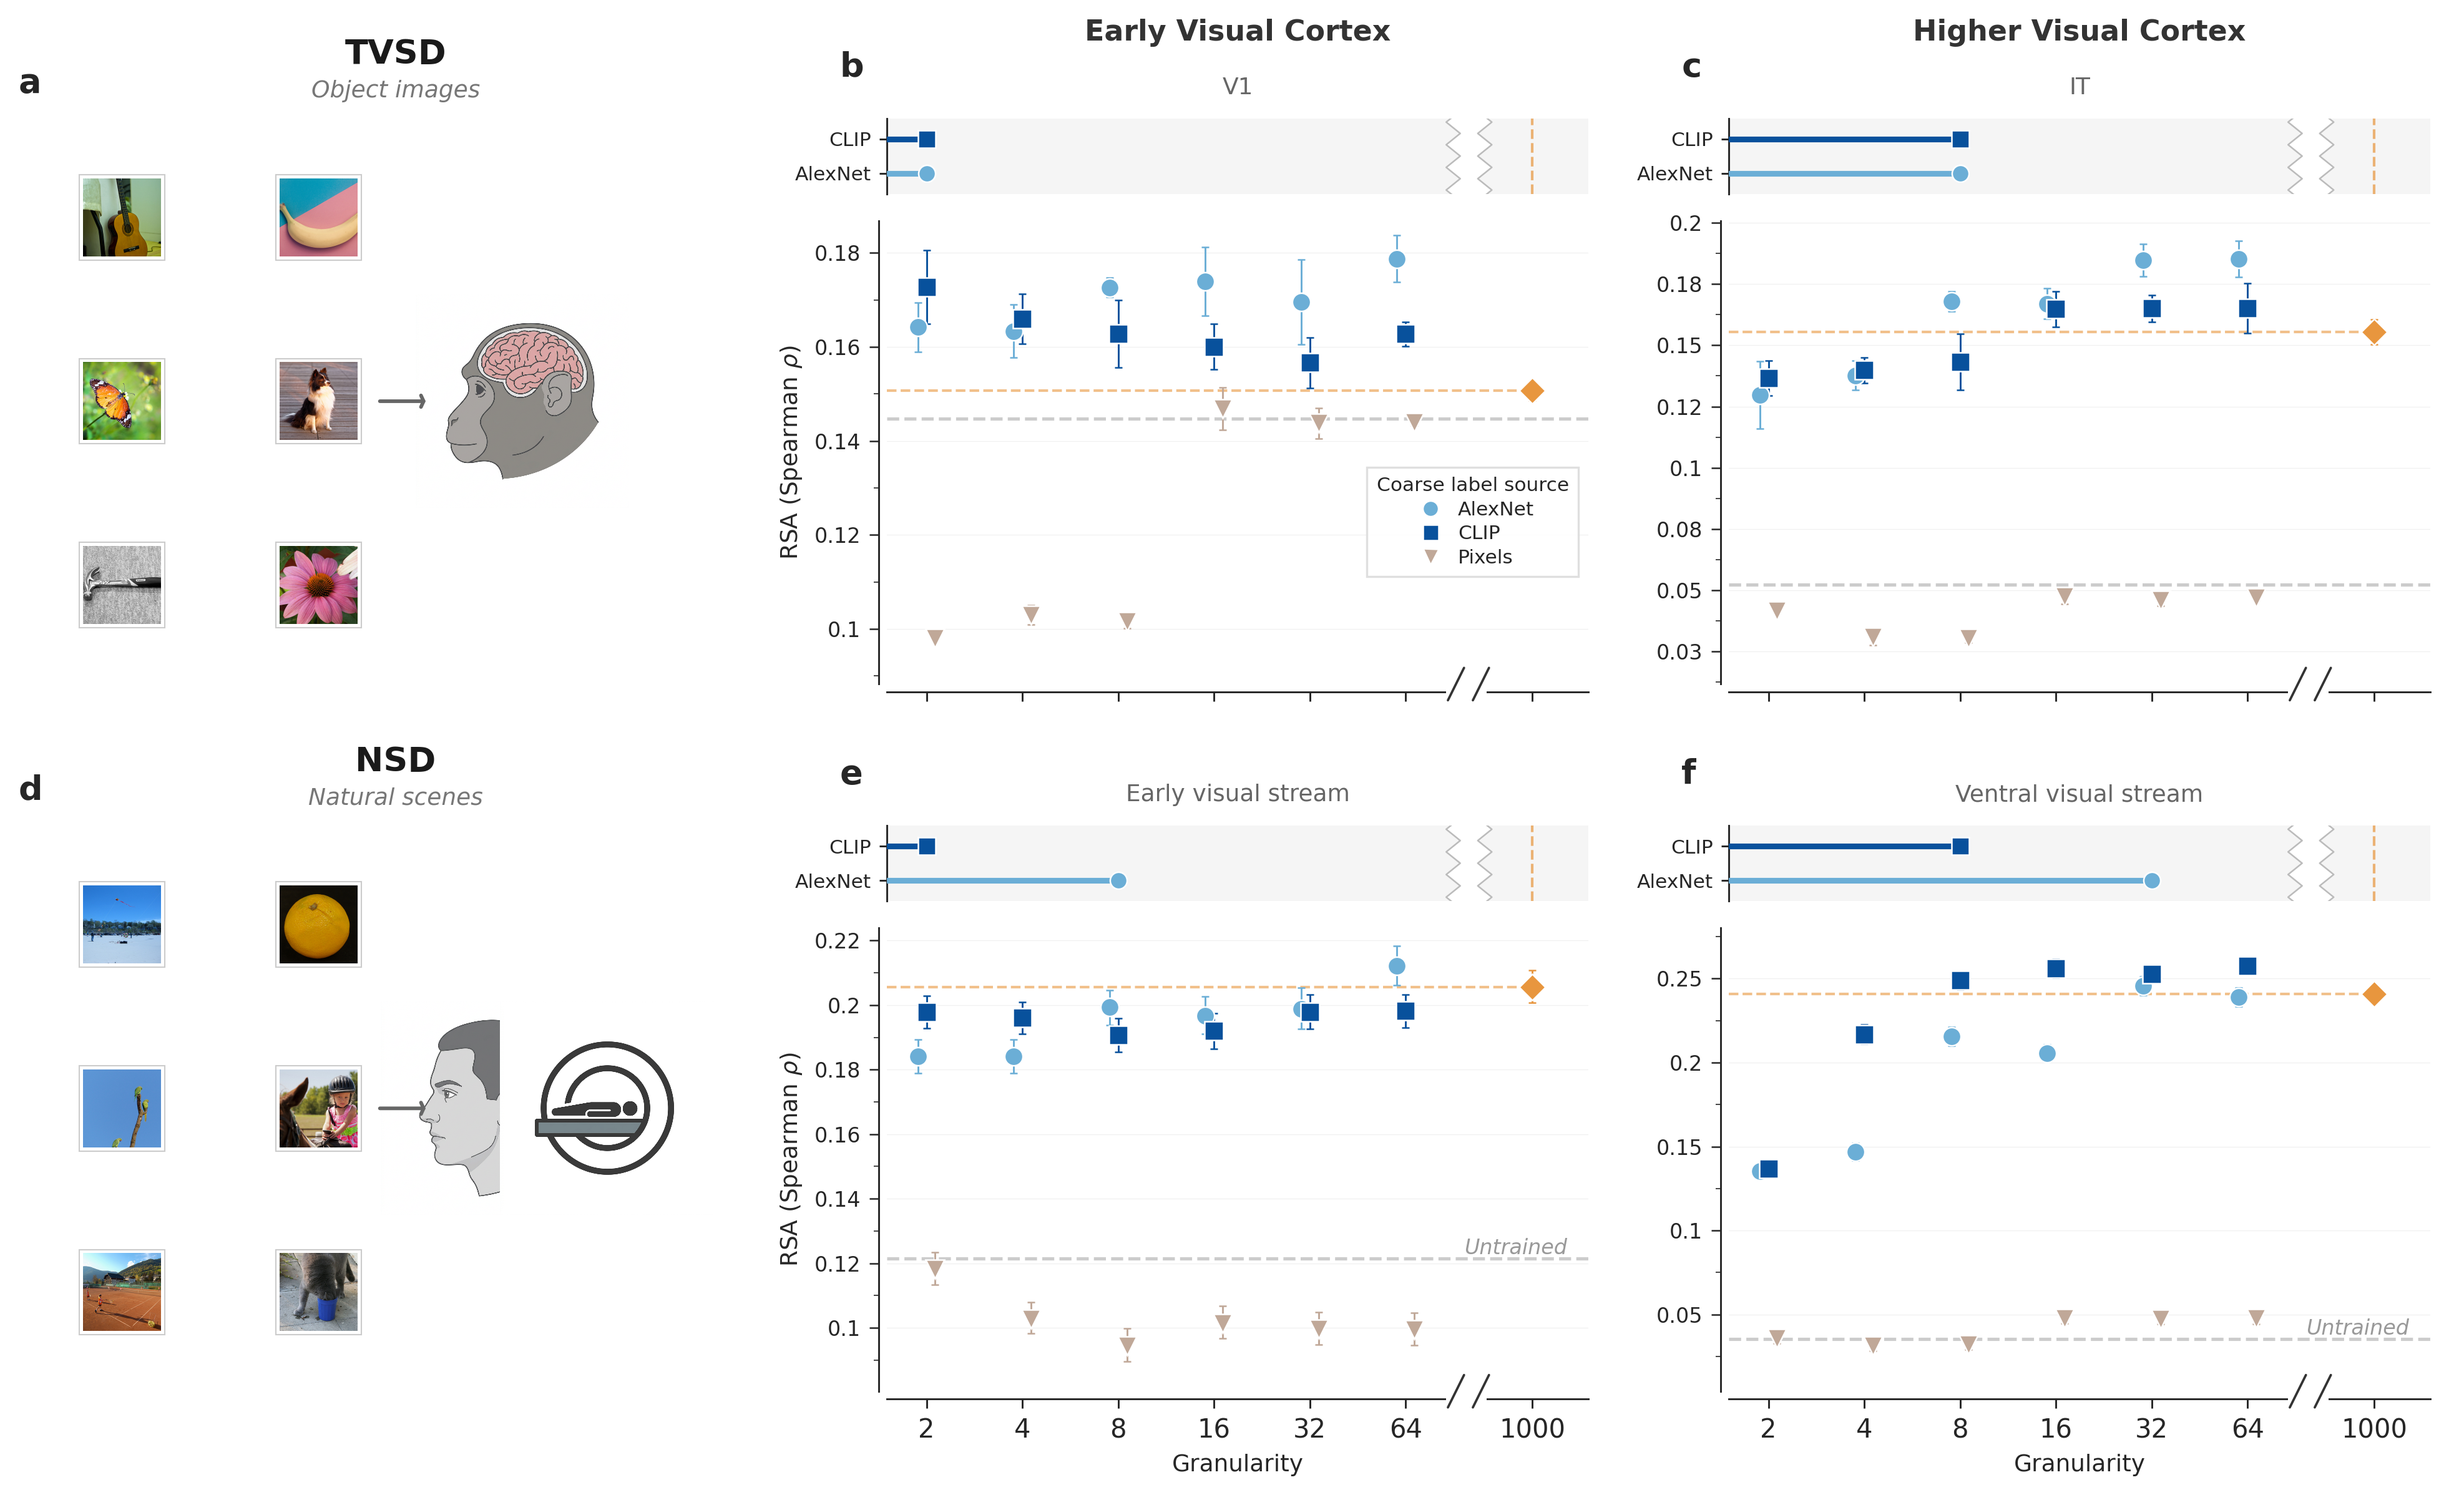
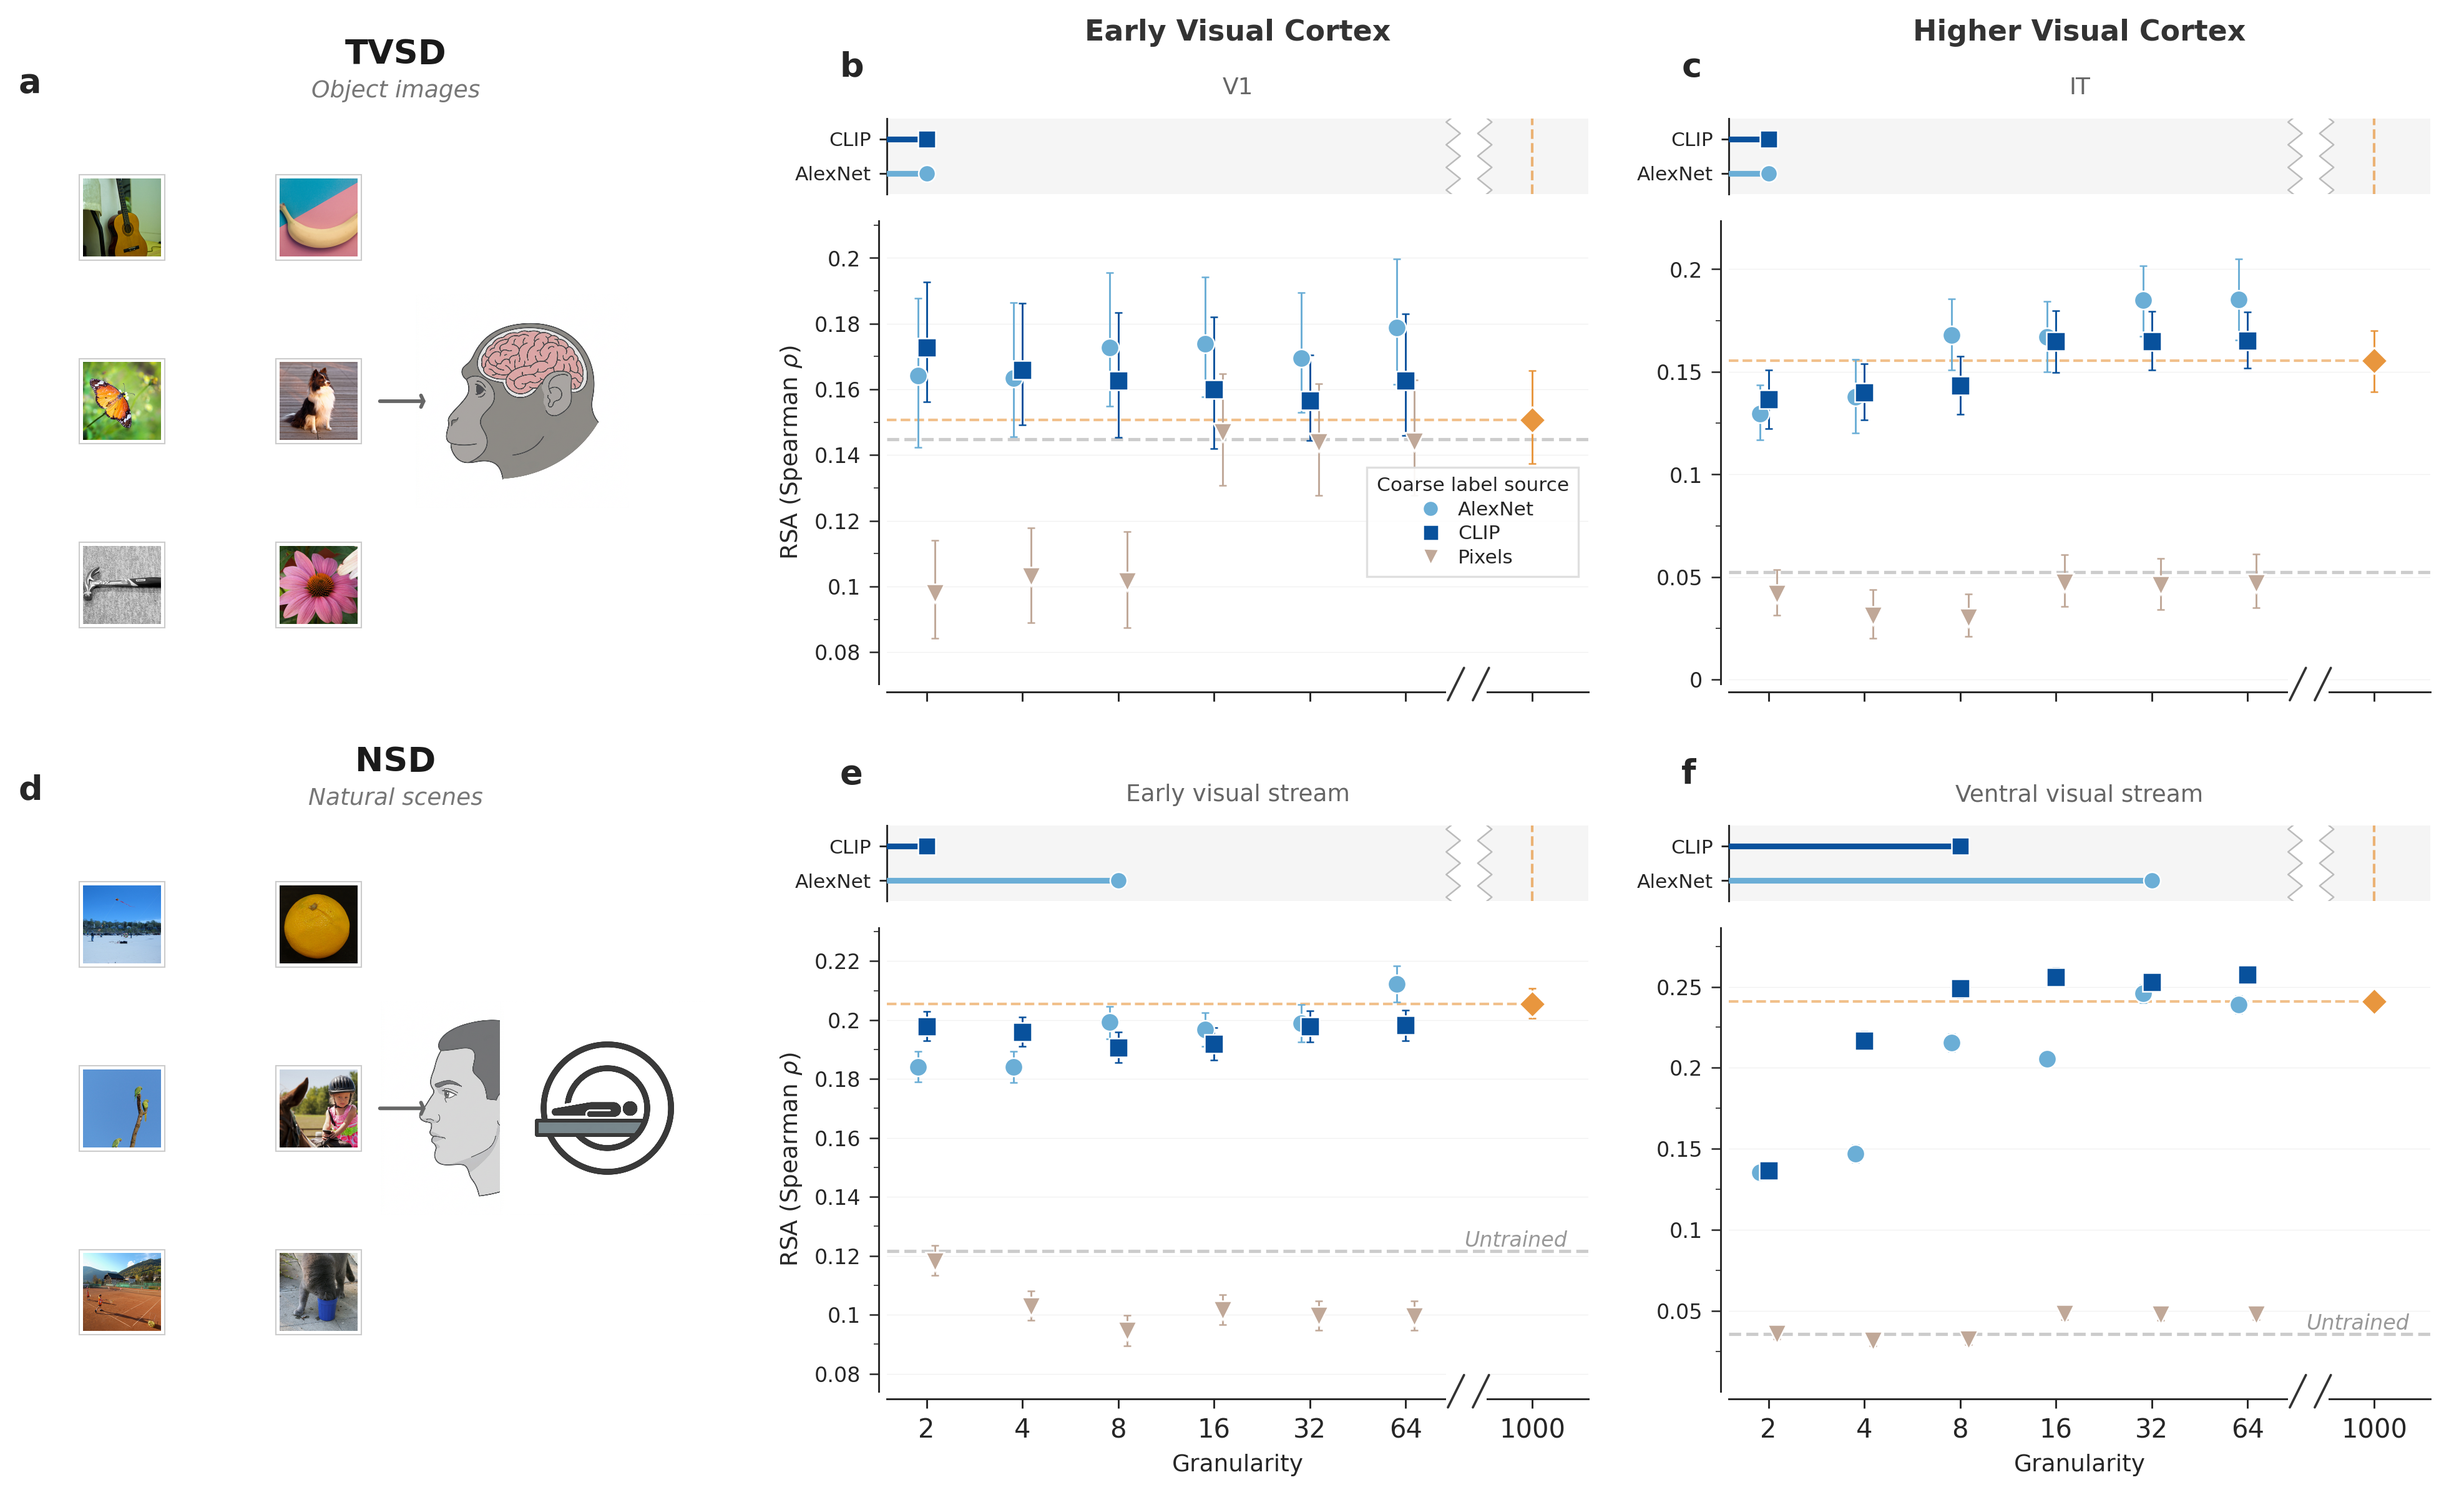
🎨 Update fig3 neural alignment panels and add species/brain assets
Remove extract_class_centroids.py and panel_efficiency.py (no longer used).
Update figure3.py, panel_raw.py, and shared.py for revised 2×3 layout.
Add fMRI, human, and monkey schematic assets.

diff --git a/manuscript/figures/fig3/shared.py b/manuscript/figures/fig3/shared.py
@@ -1,6 +1,6 @@
 """Shared constants, data fetching, and axis formatting for Figure 3.
 
-Used by panel_raw.py, panel_efficiency.py, and figure3.py.
+Used by panel_raw.py, panel_bits.py, and figure3.py.
 """
 
 import sys
@@ -10,7 +10,7 @@ import numpy as np
 from matplotlib.ticker import AutoMinorLocator, FixedLocator, FuncFormatter, NullLocator
 
 sys.path.insert(0, "plotters")
-from plotter_utils import get_condition_summary, query_best_scores
+from plotter_utils import get_condition_summary
 
 sys.path.insert(0, "manuscript/figures")
 from fig_utils import COARSE_CFGS, MARKER_SIZE, EDGE_COLOR, EDGE_WIDTH, compute_jitter
@@ -37,85 +37,45 @@ def fetch_arch_data(dataset, folder, region):
     """Fetch means and asymmetric error bars for coarse-label conditions.
 
     Returns (means, errs_lo, errs_hi) arrays of length len(COARSE_CFGS).
-    NSD uses bootstrap CIs; TVSD uses 1.96 * SEM across seeds.
+    Uses bootstrap CIs (via get_condition_summary) for both NSD and TVSD.
     """
-    if dataset == "nsd":
-        means, ci_lo, ci_hi = [], [], []
-        for cfg in COARSE_CFGS:
-            s = get_condition_summary("nsd", region, folder, cfg,
-                                      "spearman", epoch=20, analysis="rsa")
-            means.append(s["mean"])
-            ci_lo.append(s["ci_low"])
-            ci_hi.append(s["ci_high"])
-        means = np.array(means)
-        errs_lo = np.array([max(m - lo, 0) if not np.isnan(lo) else 0
-                            for m, lo in zip(means, ci_lo)])
-        errs_hi = np.array([max(hi - m, 0) if not np.isnan(hi) else 0
-                            for m, hi in zip(means, ci_hi)])
-    else:
-        means, sems = [], []
-        for cfg in COARSE_CFGS:
-            df = query_best_scores("tvsd", region, folder, cfg,
-                                   "spearman", epoch=20, analysis="rsa")
-            if df.empty:
-                means.append(np.nan)
-                sems.append(0)
-                continue
-            seed_means = df.groupby("seed")["score"].mean()
-            means.append(seed_means.mean())
-            sem = seed_means.std() / np.sqrt(len(seed_means)) if len(seed_means) > 1 else 0
-            sems.append(sem)
-        means = np.array(means)
-        errs_lo = errs_hi = 1.96 * np.array(sems)
+    means, ci_lo, ci_hi = [], [], []
+    for cfg in COARSE_CFGS:
+        s = get_condition_summary(dataset, region, folder, cfg,
+                                  "spearman", epoch=20, analysis="rsa")
+        means.append(s["mean"])
+        ci_lo.append(s["ci_low"])
+        ci_hi.append(s["ci_high"])
+    means = np.array(means)
+    errs_lo = np.array([max(m - lo, 0) if not np.isnan(lo) else 0
+                        for m, lo in zip(means, ci_lo)])
+    errs_hi = np.array([max(hi - m, 0) if not np.isnan(hi) else 0
+                        for m, hi in zip(means, ci_hi)])
     return means, errs_lo, errs_hi
 
 
 @lru_cache(maxsize=16)
 def fetch_baseline(dataset, region, epoch=20):
     """Fetch 1000-way baseline mean score."""
-    if dataset == "nsd":
-        s = get_condition_summary("nsd", region, "imagenet1k", 1000,
-                                  "spearman", epoch=epoch, analysis="rsa")
-        return s["mean"]
-    df = query_best_scores("tvsd", region, "imagenet1k", 1000,
-                           "spearman", epoch=epoch, analysis="rsa")
-    if df.empty:
-        return np.nan
-    return df.groupby("seed")["score"].mean().mean()
+    s = get_condition_summary(dataset, region, "imagenet1k", 1000,
+                              "spearman", epoch=epoch, analysis="rsa")
+    return s["mean"]
 
 
 @lru_cache(maxsize=16)
 def fetch_baseline_ci(dataset, region, epoch=20):
     """Fetch 1000-way baseline (mean, ci_low, ci_high)."""
-    if dataset == "nsd":
-        s = get_condition_summary("nsd", region, "imagenet1k", 1000,
-                                  "spearman", epoch=epoch, analysis="rsa")
-        return s["mean"], s["ci_low"], s["ci_high"]
-    df = query_best_scores("tvsd", region, "imagenet1k", 1000,
-                           "spearman", epoch=epoch, analysis="rsa")
-    if df.empty:
-        return np.nan, np.nan, np.nan
-    seed_means = df.groupby("seed")["score"].mean()
-    m = seed_means.mean()
-    sem = seed_means.std() / np.sqrt(len(seed_means)) if len(seed_means) > 1 else 0
-    return m, m - 1.96 * sem, m + 1.96 * sem
+    s = get_condition_summary(dataset, region, "imagenet1k", 1000,
+                              "spearman", epoch=epoch, analysis="rsa")
+    return s["mean"], s["ci_low"], s["ci_high"]
 
 
 @lru_cache(maxsize=16)
 def fetch_coarse_ci(dataset, folder, region, cfg):
     """Fetch (mean, ci_low, ci_high) for a single coarse condition."""
-    if dataset == "nsd":
-        s = get_condition_summary("nsd", region, folder, cfg,
-                                  "spearman", epoch=20, analysis="rsa")
-        return s["mean"], s["ci_low"], s["ci_high"]
-    df = query_best_scores("tvsd", region, folder, cfg,
-                           "spearman", epoch=20, analysis="rsa")
-    if df.empty:
-        return np.nan, np.nan, np.nan
-    seed_means = df.groupby("seed")["score"].mean()
-    m = seed_means.mean()
-    sem = seed_means.std() / np.sqrt(len(seed_means)) if len(seed_means) > 1 else 0
-    return m, m - 1.96 * sem, m + 1.96 * sem
+    s = get_condition_summary(dataset, region, folder, cfg,
+                              "spearman", epoch=20, analysis="rsa")
+    return s["mean"], s["ci_low"], s["ci_high"]
 
 
 # ── Axis formatting ──────────────────────────────────────────────────────
@@ -137,8 +97,11 @@ def format_xaxis(ax, show_xlabel, xlim_right=RAW_XLIM_RIGHT):
     ax.set_xlim(1.5, xlim_right)
 
 
-def format_yaxis(ax, fmt_str=".2f"):
+def format_yaxis(ax, fmt_str=".2f", tick_interval=None):
     """Y-axis with minor ticks, grid, and trimmed numeric labels."""
+    if tick_interval is not None:
+        from matplotlib.ticker import MultipleLocator
+        ax.yaxis.set_major_locator(MultipleLocator(tick_interval))
     ax.tick_params(axis="y", which="major", direction="out", length=3.5, width=0.6)
     ax.yaxis.set_minor_locator(AutoMinorLocator(2))
     ax.tick_params(axis="y", which="minor", direction="out", length=2, width=0.4)

diff --git a/manuscript/figures/fig3/panel_raw.py b/manuscript/figures/fig3/panel_raw.py
@@ -37,7 +37,7 @@ def _format_broken_xaxis(ax, show_xlabel):
 
 
 def plot_raw(ax, dataset, region, show_ylabel=True, show_xlabel=True,
-             show_untrained_label=False):
+             show_untrained_label=False, tick_interval=None):
     """Raw Spearman rho scatter (all architectures) + 1000-way marker + broken axis."""
     bl_mean, bl_ci_low, bl_ci_high = fetch_baseline_ci(dataset, region)
     if np.isnan(bl_mean) or bl_mean == 0:
@@ -48,6 +48,10 @@ def plot_raw(ax, dataset, region, show_ylabel=True, show_xlabel=True,
     untrained_mean = fetch_baseline(dataset, region, epoch=0)
 
     all_y = [bl_mean]
+    if not np.isnan(bl_ci_low):
+        all_y.append(bl_ci_low)
+    if not np.isnan(bl_ci_high):
+        all_y.append(bl_ci_high)
     if not np.isnan(untrained_mean):
         all_y.append(untrained_mean)
 
@@ -55,7 +59,9 @@ def plot_raw(ax, dataset, region, show_ylabel=True, show_xlabel=True,
     for arch_idx, (arch_key, folder, _) in enumerate(ARCHITECTURES):
         style = ARCH_STYLE[arch_key]
         means, errs_lo, errs_hi = fetch_arch_data(dataset, folder, region)
-        all_y.extend(m for m in means if not np.isnan(m))
+        for i, m in enumerate(means):
+            if not np.isnan(m):
+                all_y.extend([m - errs_lo[i], m + errs_hi[i]])
         jitter = compute_jitter(arch_idx, len(ARCHITECTURES))
 
         for i, cfg in enumerate(COARSE_CFGS):
@@ -100,7 +106,7 @@ def plot_raw(ax, dataset, region, show_ylabel=True, show_xlabel=True,
     _format_broken_xaxis(ax, show_xlabel)
     draw_xaxis_break(ax)
     ax.set_ylim(y_min - y_range * 0.12, y_max + y_range * 0.10)
-    format_yaxis(ax)
+    format_yaxis(ax, tick_interval=tick_interval)
 
     if show_ylabel:
         ax.set_ylabel(r"RSA (Spearman $\rho$)", fontsize=9, labelpad=4)

diff --git a/manuscript/figures/fig3/figure3.py b/manuscript/figures/fig3/figure3.py
@@ -56,17 +56,17 @@ def main():
 
     # ── Data panels (cols 1–2): each cell = lollipop + scatter ──
     panel_defs = [
-        # (row, col, dataset, region, show_ylabel, show_xlabel)
-        (0, 1, "tvsd", "V1",                    True,  False),
-        (0, 2, "tvsd", "IT",                    False, False),
-        (1, 1, "nsd",  "early visual stream",   True,  True),
-        (1, 2, "nsd",  "ventral visual stream", False, True),
+        # (row, col, dataset, region, show_ylabel, show_xlabel, tick_interval)
+        (0, 1, "tvsd", "V1",                    True,  False, None),
+        (0, 2, "tvsd", "IT",                    False, False, 0.05),
+        (1, 1, "nsd",  "early visual stream",   True,  True,  None),
+        (1, 2, "nsd",  "ventral visual stream", False, True,  None),
     ]
 
     axes_scatter = {}
     axes_lollipop = {}
 
-    for orow, ocol, ds, region, ylabel, xlabel in panel_defs:
+    for orow, ocol, ds, region, ylabel, xlabel, ytick in panel_defs:
         inner = gridspec.GridSpecFromSubplotSpec(
             2, 1, subplot_spec=outer[orow, ocol],
             height_ratios=[0.14, 0.86], hspace=0.10)
@@ -75,7 +75,8 @@ def main():
         show_untrained = (orow == 1)  # bottom row shows untrained label
         plot_raw(ax_raw, ds, region,
                  show_ylabel=ylabel, show_xlabel=xlabel,
-                 show_untrained_label=show_untrained)
+                 show_untrained_label=show_untrained,
+                 tick_interval=ytick)
         axes_scatter[(orow, ocol)] = ax_raw
 
         ax_lol = fig.add_subplot(inner[0, 0], sharex=ax_raw)
